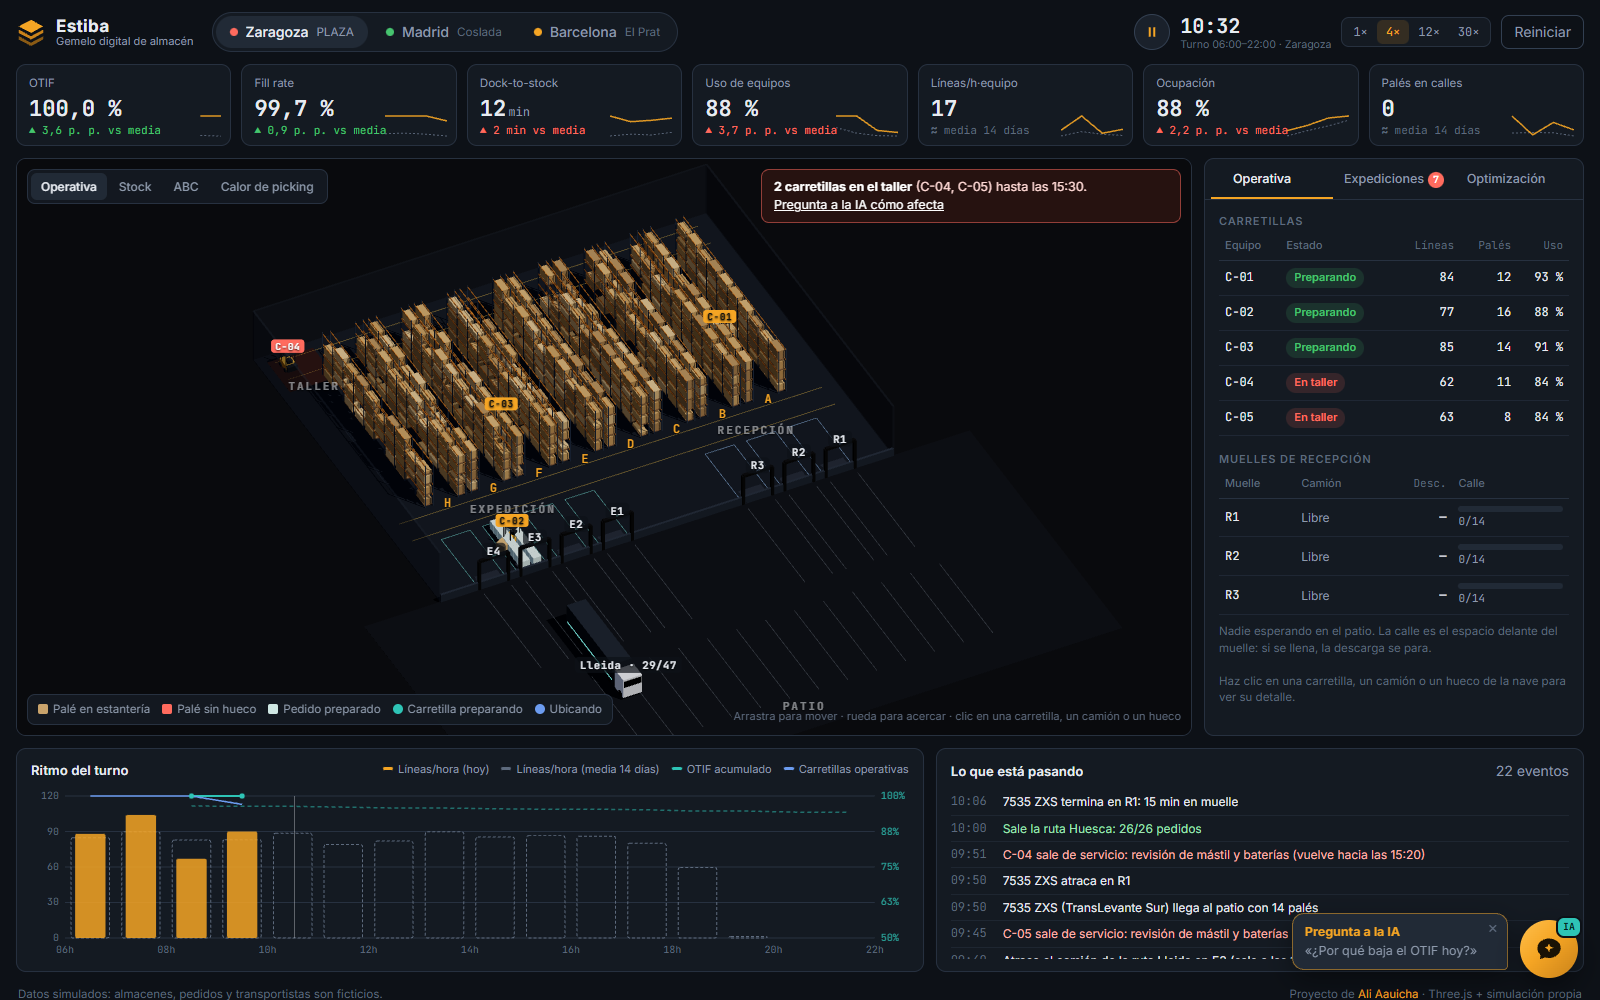
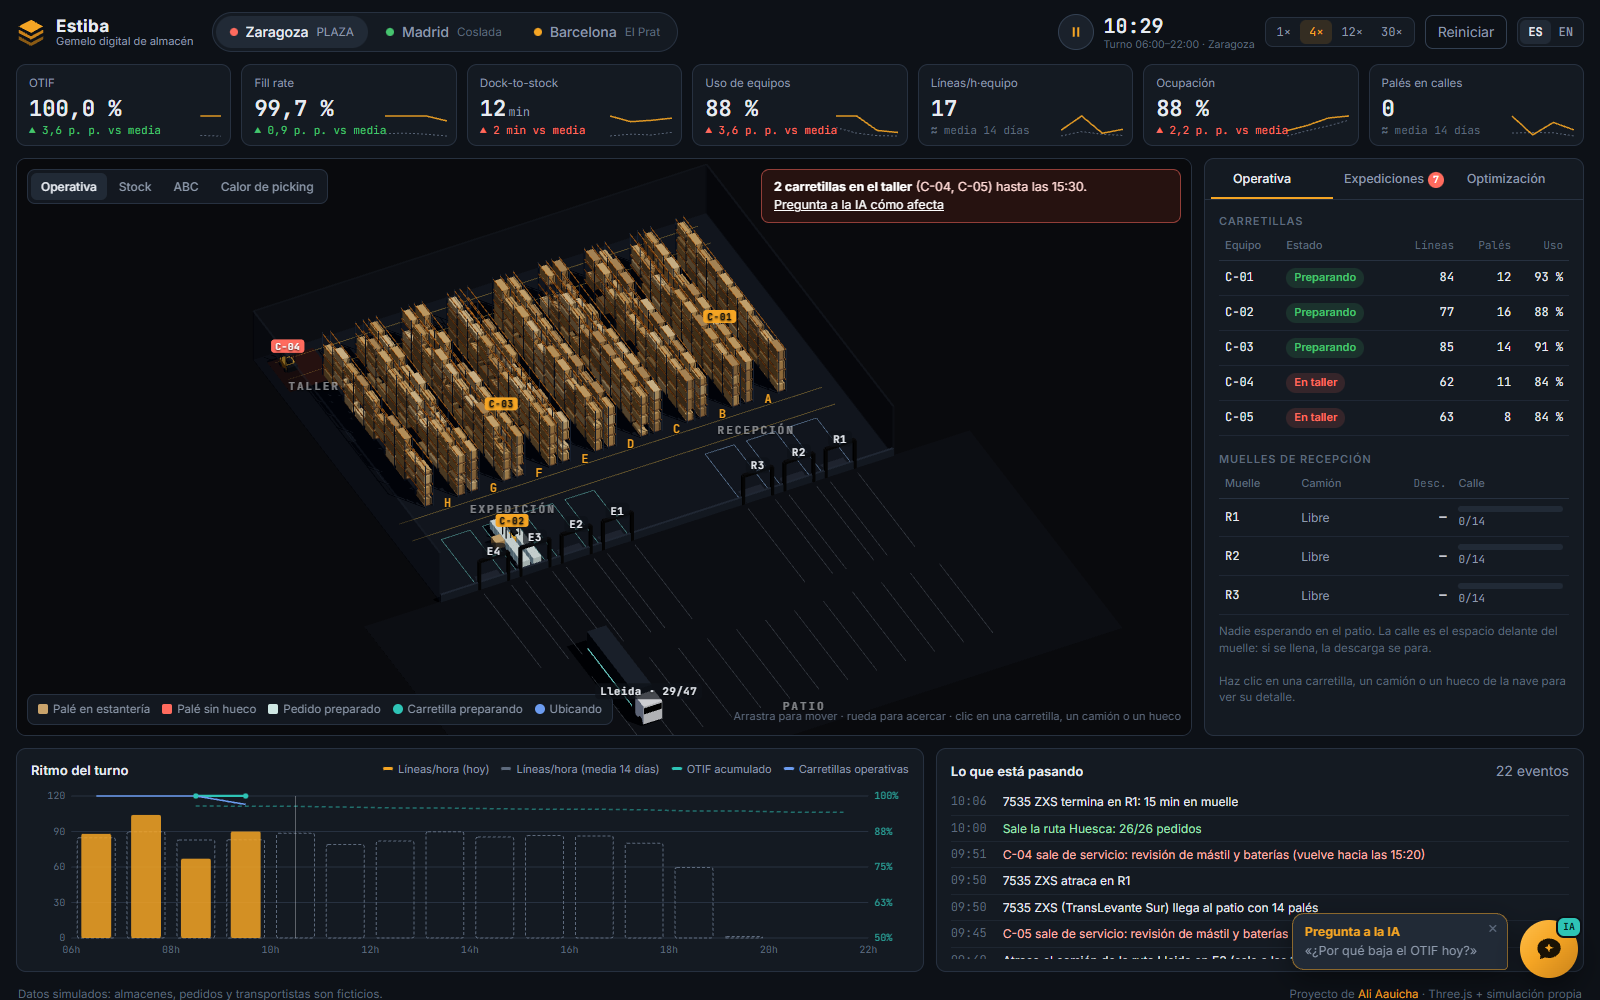
README: capturas nuevas en español e inglés

diff --git a/README.md b/README.md
@@ -9,7 +9,7 @@ y un asistente que explica las desviaciones con los datos del propio turno.
 
 **Demo en vivo: https://d1ex3zlctjya5a.cloudfront.net**
 
-[![Estiba: nave en 3D con indicadores del turno, carretillas en el taller y asistente con IA](docs/captura.png)](https://d1ex3zlctjya5a.cloudfront.net)
+[![Estiba: nave en 3D con indicadores del turno, carretillas en el taller y asistente con IA](docs/captura.png)](https://d1ex3zlctjya5a.cloudfront.net/?lang=es)
 
 No es una maqueta: cada carretilla, camión y palé que se ve sale de un motor de simulación por eventos,
 y los indicadores se calculan sobre lo que ocurre en él.
@@ -81,6 +81,8 @@ Autor: [Ali Aauicha](https://www.linkedin.com/in/ali-aauicha/)
 to routes leaving on time, and every forklift, truck and pallet on screen comes from that simulation.
 
 **Live demo: https://d1ex3zlctjya5a.cloudfront.net/?lang=en**
+
+[![Estiba: 3D warehouse with shift KPIs, forklifts in the workshop and the AI assistant](docs/captura-en.png)](https://d1ex3zlctjya5a.cloudfront.net/?lang=en)
 
 - **Three fictional warehouses** (Zaragoza, Madrid, Barcelona), each with its own issue: two forklifts in the
   workshop, a healthy baseline, and a nearly full building with old slotting.
